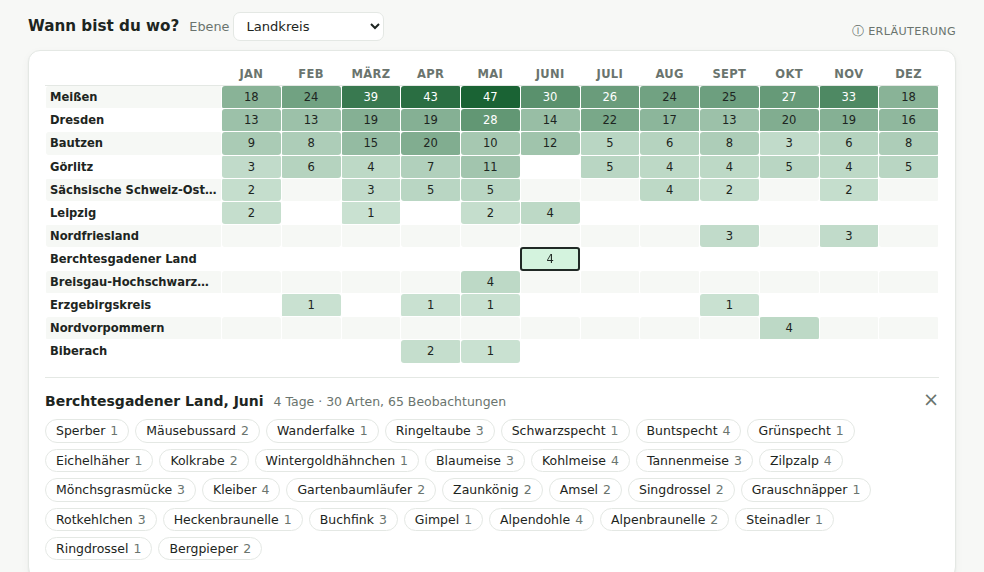
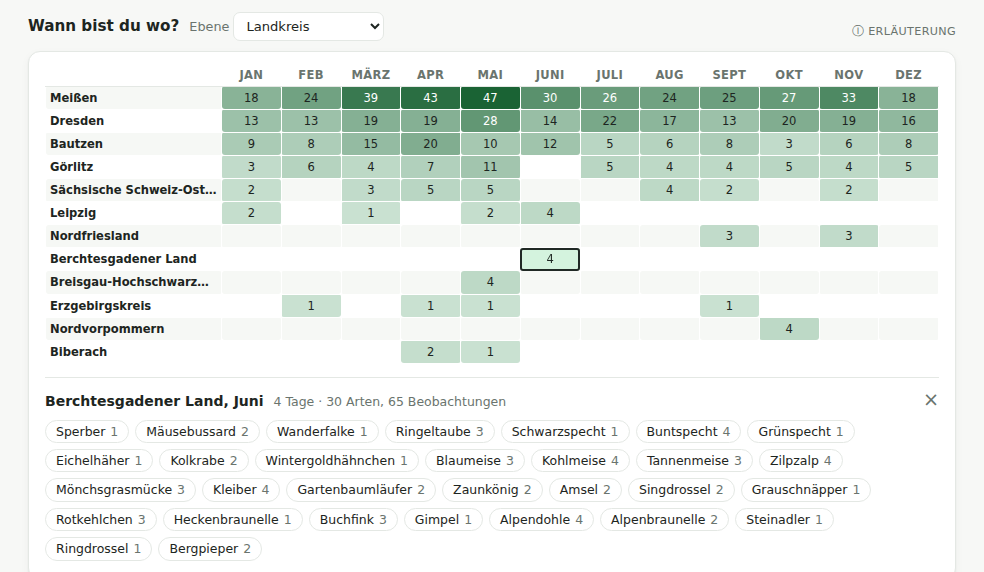
Bug: Put the regions click hint next to the tables it explains
"Klick auf einen Namen filtert ..." sat alone at the top of the Regionen
tab, above sections without clickable names. It now belongs to the first
"Arten nach ..." table and also says that the click jumps to the overview
and how to go back.

diff --git a/src/i18n.js b/src/i18n.js
@@ -96,7 +96,7 @@ de: {
   detailWindow: "Typisches Zeitfenster", detailGapYears: "Jahre ohne Nachweis", windowRange: "{0}–{1}", calYearRound: "ganzjährig",
   rmTitle: "Wann bist du wo?", tocRegMonth: "Region und Monat", rmLevel: "Ebene", rmDay: "{0} Tag", rmDays: "{0} Tage",
   rmHelp: "Beobachtungstage je Region und Monat, über alle Jahre oder im gewählten Jahr, für die Regionen mit den meisten Beobachtungstagen. Zeigt, wo du dich zu welcher Jahreszeit am liebsten aufhältst. Ein Klick auf eine Zelle zeigt die Arten.",
-  regionsBy: "Arten nach {0}", regionsHelp: "Klick auf einen Namen filtert die gesamte Seite auf diese Region.",
+  regionsBy: "Arten nach {0}", regionsHelp: "Ein Klick auf einen Namen in diesen Tabellen filtert die ganze Seite auf diese Region und springt zur Übersicht. Zurück geht es oben mit „Alle Regionen“.",
   regCoverageHint: "Wähle eine Region, um zu sehen, welche Arten deiner Lebensliste dort noch fehlen.", regCoveragePick: "Region",
   regCoverageHelp: "{0} von {1} Lebenslisten-Arten hier gesehen, {2} fehlen noch.", regCoverageDone: "Alle Lebenslisten-Arten wurden bereits in dieser Region gesehen.",
   colLife: "Lifer", colYearShort: "Jahr", showAll: "Alle {0} anzeigen", showLess: "Weniger anzeigen",
@@ -215,7 +215,7 @@ en: {
   detailWindow: "Typical window", detailGapYears: "Years without a record", windowRange: "{0}–{1}", calYearRound: "year-round",
   rmTitle: "When are you where?", tocRegMonth: "Region and month", rmLevel: "Level", rmDay: "{0} day", rmDays: "{0} days",
   rmHelp: "Observation days per region and month, over all years or in the selected year, for the regions with the most observation days. Shows where you like to go in which season. Click a cell to see the species.",
-  regionsBy: "Species by {0}", regionsHelp: "Click a name to filter the whole page to that region.",
+  regionsBy: "Species by {0}", regionsHelp: "Clicking a name in these tables filters the whole page to that region and jumps to the overview. \"All regions\" at the top goes back.",
   regCoverageHint: "Pick a region to see which of your life-list species are still missing there.", regCoveragePick: "Region",
   regCoverageHelp: "{0} of {1} life-list species seen here, {2} still missing.", regCoverageDone: "All life-list species have already been seen in this region.",
   colLife: "Life", colYearShort: "Year", showAll: "Show all {0}", showLess: "Show less",

diff --git a/src/regions.js b/src/regions.js
@@ -4,7 +4,7 @@ const LEVELS = [
   { lvl: "m", title: "grpMuni", label: p => p.muni || T.unknown },
   { lvl: "p", title: "grpPlace", label: p => p.name },
 ];
-function regionTable(lv, list) {
+function regionTable(lv, list, first = false) {
   const map = new Map();
   for (const o of list) {
     const p = PL[o.p], key = p.keys[lv.lvl];
@@ -21,7 +21,8 @@ function regionTable(lv, list) {
   const showAll = S.regAll[lv.lvl], shown = showAll ? rows : rows.slice(0, 10);
   const maxLife = Math.max(1, ...rows.map(r => r.life.size));
   const th = (k, label, cls) => `<th class="sortable ${cls}${sort.k === k ? " sorted" : ""}" data-lvl="${lv.lvl}" data-k="${k}">${label}${sort.k === k ? (sort.d > 0 ? " ▲" : " ▼") : ""}</th>`;
-  return `<h2 data-toc="${esc(t(lv.title))}">${t("regionsBy", t(lv.title))}<small>${rows.length}</small></h2><div class="card"><table class="rtable"><thead><tr>
+  // the tables' names are the clickable ones: the hint sits with the first of them
+  return `<h2 data-toc="${esc(t(lv.title))}">${t("regionsBy", t(lv.title))}<small>${rows.length}</small></h2>${first ? infoText(t("regionsHelp")) : ""}<div class="card"><table class="rtable"><thead><tr>
     <th class="nr">#</th>${th("name", t(lv.title), "")}<th class="rbar"></th>${th("life", t("colLife"), "num")}${th("year", t("colYearShort") + " " + S.year, "num")}${th("month", T.monthsShort[S.month - 1].replace(".", "") + " " + S.year, "num")}</tr></thead><tbody>` +
     shown.map((r, i) => {
       const pct = r.life.size / maxLife * 100;
@@ -102,11 +103,10 @@ function toggleRegMonthCell(key) {
 }
 function renderRegions() {
   const list = baseObs();
-  $("tab-regions").innerHTML = infoText(t("regionsHelp"))
-    + topPlacesSection(regionObs(list))
+  $("tab-regions").innerHTML = topPlacesSection(regionObs(list))
     + regionCoverageSection(list)
     + regionMonthSection(list)
-    + visibleLevels().map(lv => regionTable(lv, list)).join("");
+    + visibleLevels().map((lv, i) => regionTable(lv, list, i === 0)).join("");
   $("reg-cov").value = S.region;
   updateToc();
 }
